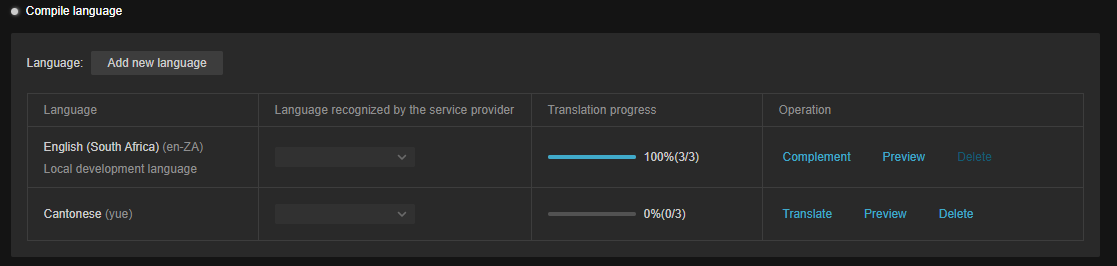
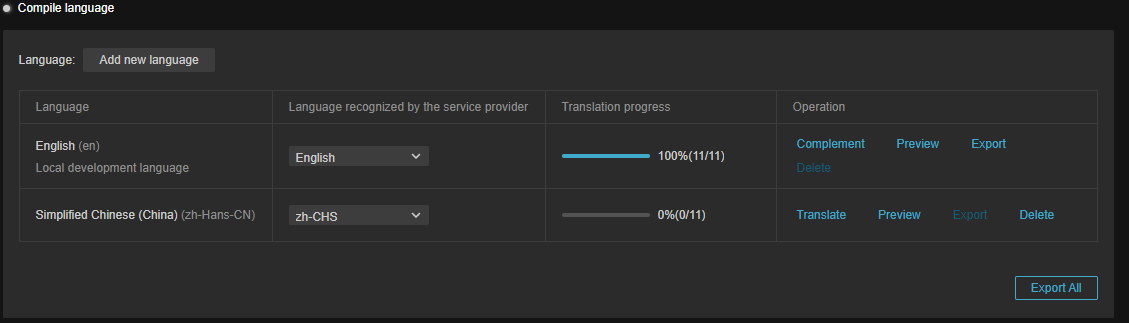
L10N 内容补全

diff --git a/zh/editor/l10n/compile-language.md b/zh/editor/l10n/compile-language.md
@@ -1,1 +1,99 @@
-# complie language
+# 语言编译
+
+![overview](compile/overview.png)
+
+当在 [收集并统计](collect-and-count.md) 视图中选定本地开发语言后，即可对编译过程进行配置。
+
+## 语言
+
+开发者可以在此处选择目标版本的语言。
+
+![add](compile/add-lang.png)
+
+第一行的语言为 **本地开发语言**，记录当前开发过程中所使用的本地语言，通常是开发者最熟悉的语言。在该语言下，**操作** 栏中会出现 **补全** 功能，用于记录 Label 组件的原文，需搭配 [L10nLabel](l10n-label.md) 使用。详情请参考下文。
+
+从第二行开始，则是目标地区所使用的语言，开发者需至少选择一个目标语言，才会出现翻译选项。
+
+## 译文服务商识别的语言
+
+![provider](compile/lang-provider.png)
+
+在下拉菜单中可以选择目标语言，语种类型由译文服务商提供的
+
+## 翻译进度
+
+![progress](compile/progress.png)
+
+展示当前的翻译进度。
+
+## 操作
+
+### 补全
+
+**补全** 供仅在当前语言设置为 **本地开发语言** 时生效。补齐功能的作用是记录当前开发语言中所要翻译的内容的原文。
+
+![complemenet](compile/complement.png)
+
+当在预制体或场景内通过 [L10nLabel](l10n-label.md) 组件添加键值后：
+
+![new key](compile/new-key.png)
+
+可在 **补全** 界面中找到对应的键值，在 原文（Original） 一栏中输入该键值对应的文本，然后点击 **保存** 按钮即可将原文保存：
+
+![unfilled](compile/unfilled.png)
+
+### 变体
+
+变体是同一种含义的多种表达。通过丰富化翻译结果，避免单一表述，提升多样性。
+
+在 **补全** 界面中，点击 **变体** 按钮可以输入新的变体：
+
+![otehr](compile/other.png)
+
+在 **补全** 完成后，记得需要点击上方的 **保存** 按钮进行保存。
+
+### 翻译
+
+当在 **补全** 功能中，添加了键值和原文后，即可以使用译文服务商的翻译服务进行翻译，点击 **翻译按钮** 可弹出翻译界面：
+
+![translate](compile/translate.png)
+
+点击右上方的 **翻译** 按钮，进行翻译：
+
+![translate-overview](compile/translate-overview.png)
+
+翻译完成后可在 **翻译** 分页内查看翻译结果：
+
+![complete](compile/translate-complete.png)
+
+对于已翻译的文本，也可以点击 **变体**，添加不同的翻译：
+
+![variant](compile/translated-variant.png)
+
+### 预览
+
+点击预览可快速预览当前场景持有 [L10nLabel](l10n-label.md) 组件的节点在该语言下的展示情况:
+
+![preview](compile/preview-overview.png)
+
+预览前：
+
+![pev](compile/original-preview.png)
+
+翻译后：
+
+![prev](compile/translate-preview.png)
+
+### 导出
+
+点击 **导出** 按钮可以将原文/已翻译的内容导出为 PO 文件。
+
+> PO 文件是软件开发中一种常见的基于文本对象的文件，通常用于记录界面翻译的结果。
+
+![export](compile/export.png)
+
+### 删除
+
+![del](compile/delete.png)
+
+删除当前语言已翻译的进度，确认后结果不会被保存，请谨慎操作。

diff --git a/zh/editor/l10n/collect-and-count.md b/zh/editor/l10n/collect-and-count.md
@@ -1,4 +1,4 @@
-# Collect and count
+# 收集并统计
 
 ![overview](collect/overview.png)
 
@@ -8,15 +8,18 @@
 
     ![lang](collect/diff-language.png)
 
-- 从资源文件中收集：多语言编辑功能可以从不同的资源目录搜集所需翻译的文本信息，同时也可以选择过滤或排除某些文件/文件夹。详情请参考下文
+    该选项为必选。
 
-## 从资源文件中收集
+- 从资源文件中收集：多语言编辑功能可以从不同的资源目录收集所需翻译的文本信息，同时也可以选择过滤或排除某些文件/文件夹。
 
-## 收集并统计
+    ![group](collect/group.png)
 
-![group](collect/group.png)
+    - 收集组：可添加多个，通过 **添加按钮** 添加不同的收集组，对于已添加的项，鼠标滑过时会显示删除按钮。
 
-- 收集组：可添加多个，通过 **添加按钮** 添加不同的收集组。
-    - 搜索目录
-    - 扩展名
-    - 排除路径
+      ![add-remove](collect/add-remove.png)
+
+        - 搜索目录：可以指定当前资源数据库内特定的目录，用于收集需要翻译的资源，最少为 1 个即 `db://assets`。为减少收集时间，我们建议开发者将需要翻译的文本或预制体存放在单独的目录。再通过此选项进行分类整理。
+        - 扩展名：指定通过特定的文件后缀名进行收集，若无，则收集所有文件。
+        - 排除路径：排除的路径将不会被收集。
+
+当配置好要收集的目录以后，点击收集和统计按钮后，数据会被记录下来，并可通过 [语言编译](compile-language.md) 进行编译和整理。

diff --git a/zh/editor/l10n/overview.md b/zh/editor/l10n/overview.md
@@ -36,17 +36,31 @@
 
 引擎整合了多家译文服务商的翻译服务，开发者可以选择不同的译文服务商以提供更完善和多样化的服务。详情请参考 [译文服务商](tranlation-service.md)。
 
-## 搜集和统计
+## 收集并统计
 
 ![ovefview](collect/overview.png)
 
-搜集和统计会将项目中可能需要翻译的文本内容进行搜集，方便进行翻译，开发者也可以通过指定特定的文件、目录或通过配置进行过滤。详情请参考 [搜集和统计](collect-and-count.md)
+收集并统计将项目中可能需要翻译的文本内容进行收集，方便进行翻译，开发者也可以通过指定特定的文件、目录或通过配置进行过滤。详情请参考 [搜集和统计](collect-and-count.md)
 
 ## 语言编译
 
 ![overview](compile/overview.png)
 
 语言翻译可以查看当前已配置和翻译的语言，并查看其进度或删除操作。同时也提供对某些非文本资源的手动处理。详情请参考 [语言编译](complie-language.md)
+
+## 程序化使用
+
+当预先编辑的情况无法满足需求时，开发者也可以参考 [程序化使用](script-using.md) 来程序化使用 L10N 的相关功能。
+
+## 发布
+
+根据上述的步骤完成翻译后，可以在发布界面进行一键发布：
+
+![publish](overview/publish.png)
+
+- 使用的语言：这里将包含所有在 **多语言编辑** 中设置的语言，开发者可根据版本不同按需选择
+- 默认语言：发布后，项目启动时所使用的语言
+- 备用语言：默认语言出现问题后使用的备用语言
 
 ## 范例
 

diff --git a/zh/editor/l10n/script-using.md b/zh/editor/l10n/script-using.md
@@ -1,0 +1,3 @@
+# 程序化使用
+
+## 切换语言
